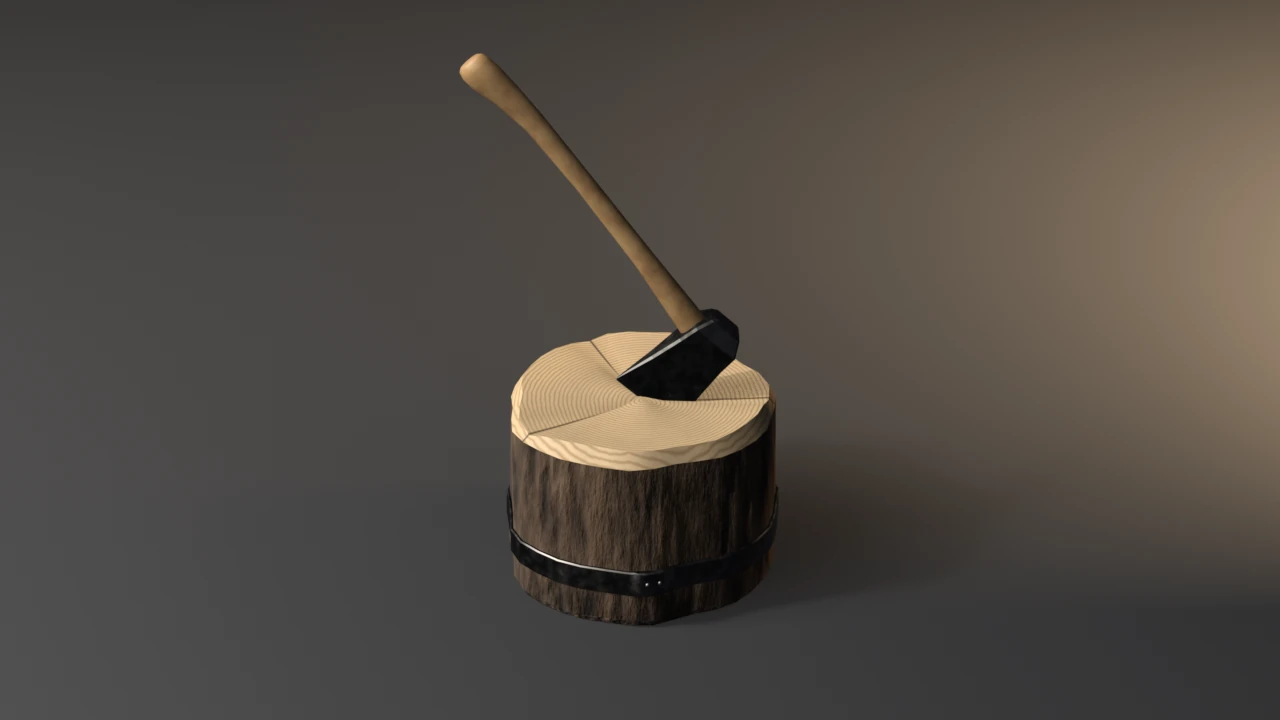
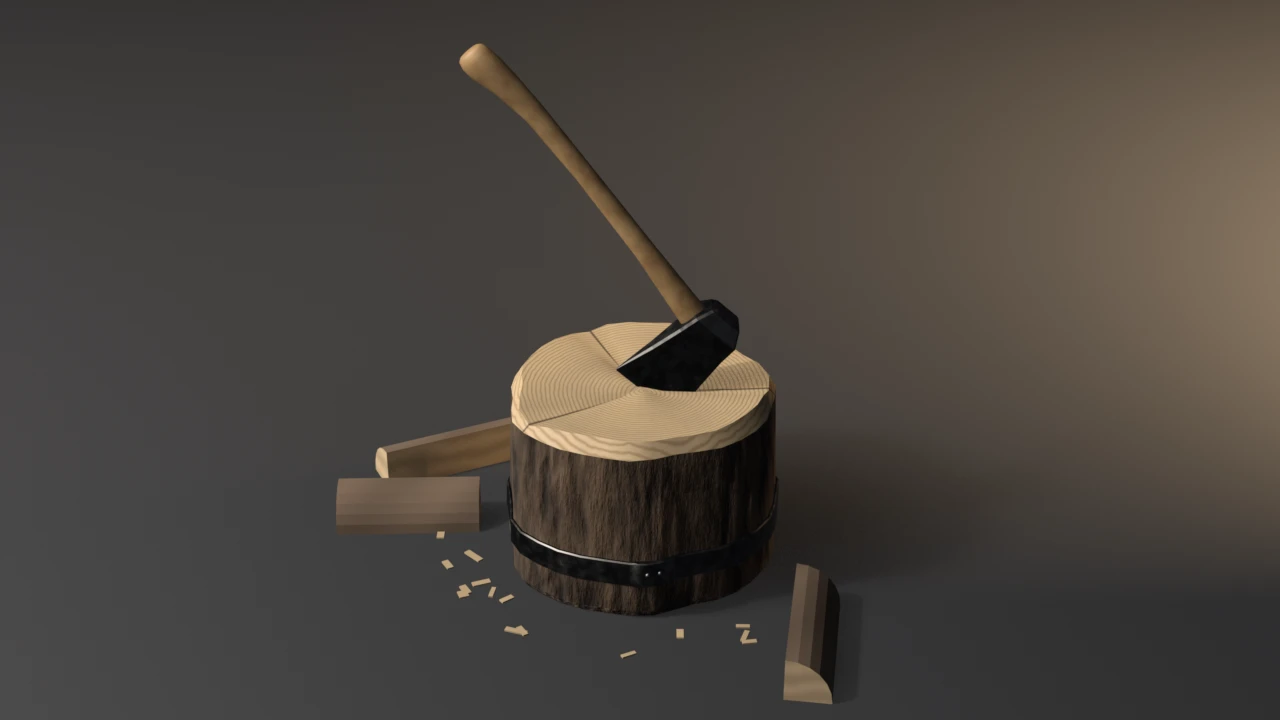
fix(showcase): set the chopping-block hero to work with split billets and chips
The hero showed the block alone on an empty floor. Render-only dressing now
lays three split billets at its foot: each is a quarter of a small round,
laid on one split face or the other so some show bark and some the split.
Sixteen seeded chips lie among them. The dressing has its own materials,
because the block's sample its baked normal map through UVs the dressing
does not have. It is not part of the asset: no budget reads it, the export
does not carry it, and the asset sheet renders the block alone. The key and
wedge were eased (900 to 760 and 700 W), since the first contact sheet read
brighter than the calibration set. Geometry and every budget are unchanged
(1800 tris).

Evidence (live runs, local .scratch binaries):
- Blender 5.2.1 LTS: default exits 0 (base 1800, LOD 0.5000 / 0.2200).
  --output passes framing: fill y 0.794, margins l 0.263 r 0.344 b 0.022
  t 0.061.
- Blender 4.5.11 LTS: default and --output exit 0, same counts, framing ok.
- tests/check_falsifier_targets.py --run on both versions: --skip-decimate
  9, --stray-vert 15, --lift-z 16, --fat-haft 17, --round-band 18,
  --float-rivets 18, --round-haft 19, all as documented.
- Contact sheet: luma 0.270, stage 0.264, warmth +0.173, sat 0.137.
- Asset sheet (docs/gallery/asset-sheets/chopping-block.webp): a small,
  simple object, but its rings, hoop, rivets and axe read as designed; not
  the least-designed object in the lineup. 5.1.2 was not run.

Changed region(s): [[0.25, 0.0611, 0.6562, 0.9778]]

diff --git a/showcase/chopping-block/chopping_block.py b/showcase/chopping-block/chopping_block.py
@@ -36,6 +36,7 @@ not an exact count.
 import argparse
 import math
 import os
+import random
 import sys
 import tempfile
 import traceback
@@ -1790,6 +1791,99 @@ def wire_normal(mat, tex):
     nt.links.new(nrm.outputs["Normal"], target)
 
 
+def _dressing_materials():
+    """Split face and bark for the render-only kindling and chips. Their own
+    materials: the block's are wired to its baked normal map through UVs the
+    dressing does not have."""
+    def mat(name, base, rough, stripes):
+        m = bpy.data.materials.new(name)
+        m.use_nodes = True
+        nt = m.node_tree
+        b = nt.nodes["Principled BSDF"]
+        b.inputs["Roughness"].default_value = rough
+        coord = nt.nodes.new("ShaderNodeTexCoord")
+        wave = nt.nodes.new("ShaderNodeTexWave")
+        wave.wave_type = "BANDS"
+        wave.bands_direction = "Z" if stripes else "X"
+        wave.inputs["Scale"].default_value = 6.0 if stripes else 2.0
+        wave.inputs["Distortion"].default_value = 6.0
+        wave.inputs["Detail"].default_value = 3.0
+        nt.links.new(coord.outputs["Object"], wave.inputs["Vector"])
+        ramp = nt.nodes.new("ShaderNodeValToRGB")
+        ramp.color_ramp.elements[0].color = tuple(c * 0.72 for c in base) + (1.0,)
+        ramp.color_ramp.elements[1].color = base + (1.0,)
+        nt.links.new(wave.outputs["Fac"], ramp.inputs["Fac"])
+        nt.links.new(ramp.outputs["Color"], b.inputs["Base Color"])
+        return m
+    split = mat("KindlingSplit", (0.62, 0.46, 0.28), 0.72, True)
+    bark = mat("KindlingBark", (0.16, 0.11, 0.075), 0.9, False)
+    return split, bark
+
+
+def add_split_kindling(scene):
+    """Render-only dressing: split billets and chips at the block's foot.
+
+    A chopping block is read by what it splits. Each billet is a quarter of
+    a small round (two split faces meeting at the pith, bark on the arc),
+    laid on the floor; chips are thin seeded slivers. None of it is part of
+    the asset: no budget reads it, the export does not carry it, and the
+    asset sheet renders the block alone.
+    """
+    split, bark = _dressing_materials()
+    rng = random.Random(71)
+    me = bpy.data.meshes.new("Kindling")
+    me.materials.append(split)
+    me.materials.append(bark)
+    bm = bmesh.new()
+    try:
+        def billet(cx, cy, yaw, r, length, roll):
+            segs = 6
+            rings = []
+            for end in (-0.5, 0.5):
+                ring = [Vector((end * length, 0.0, 0.0))]
+                for k in range(segs + 1):
+                    a = (math.pi / 2.0) * k / segs
+                    ring.append(Vector((end * length, r * math.cos(a), r * math.sin(a))))
+                rings.append(ring)
+            rot = Matrix.Rotation(yaw, 3, "Z") @ Matrix.Rotation(roll, 3, "X")
+            vs = [[bm.verts.new(rot @ p + Vector((cx, cy, 0.0))) for p in ring] for ring in rings]
+            a, b = vs
+            n = len(a)
+            for k in range(n):
+                j = (k + 1) % n
+                f = bm.faces.new((a[k], a[j], b[j], b[k]))
+                # faces between arc vertices carry bark; the two through the
+                # pith are split faces
+                f.material_index = 1 if (k >= 1 and j >= 2) else 0
+            bm.faces.new(list(reversed(a))).material_index = 0
+            bm.faces.new(b).material_index = 0
+
+        # three billets beside the foot, two left and one right;
+        # roll 0 or +90 degrees lays a billet on one split face or the other, so\n        # some show their bark and some their split face
+        billet(-0.45, -0.02, math.radians(62.0), 0.088, 0.31, 0.0)
+        billet(-0.43, -0.19, math.radians(38.0), 0.080, 0.28, math.radians(90.0))
+        billet(0.42, -0.12, math.radians(118.0), 0.084, 0.29, math.radians(90.0))
+        for i in range(16):
+            ang = rng.uniform(math.radians(200.0), math.radians(340.0))
+            d = rng.uniform(0.31, 0.42)
+            cx, cy = d * math.cos(ang), d * math.sin(ang)
+            sx, sy, sz = rng.uniform(0.020, 0.045), rng.uniform(0.008, 0.018), 0.003
+            geo = bmesh.ops.create_cube(bm, size=1.0)
+            rot = Matrix.Rotation(rng.uniform(0.0, math.pi), 3, "Z")
+            for v in geo["verts"]:
+                v.co = rot @ Vector((v.co.x * sx, v.co.y * sy, v.co.z * sz + sz / 2.0)) \
+                    + Vector((cx, cy, 0.0))
+            for f in {f for v in geo["verts"] for f in v.link_faces}:
+                f.material_index = 0
+        bmesh.ops.recalc_face_normals(bm, faces=bm.faces)
+        bm.to_mesh(me)
+    finally:
+        bm.free()
+    ob = bpy.data.objects.new("Kindling", me)
+    scene.collection.objects.link(ob)
+    return ob
+
+
 def render_still(low, wood, tex, path, engine):
     scene = bpy.context.scene
     wire_normal(wood, tex)
@@ -1802,6 +1896,7 @@ def render_still(low, wood, tex, path, engine):
     # vector or the axe reads as a dark blob seen down its own length; the
     # haft then falls across frame as a diagonal instead of a vertical stick.
     low.rotation_euler.z = math.radians(2.0)
+    kindling = add_split_kindling(scene)
 
     floor_me = bpy.data.meshes.new("Floor")
     bm = bmesh.new()
@@ -1841,9 +1936,9 @@ def render_still(low, wood, tex, path, engine):
         ob.rotation_euler = tuple(math.radians(a) for a in rot)
         scene.collection.objects.link(ob)
 
-    light("Key", (-3.1, -4.3, 4.6), 900.0, 3.4, (1.0, 0.94, 0.86), (46, 0, -36))
+    light("Key", (-3.1, -4.3, 4.6), 760.0, 3.4, (1.0, 0.94, 0.86), (46, 0, -36))
     light("Fill", (5.0, -3.4, 2.4), 60.0, 8.0, (0.72, 0.82, 1.0), (62, 0, 50))
-    light("Wedge", (2.35, 2.5, 1.55), 900.0, 2.4, (1.0, 0.68, 0.38), (-64, 0, 218))
+    light("Wedge", (2.35, 2.5, 1.55), 700.0, 2.4, (1.0, 0.68, 0.38), (-64, 0, 218))
 
     cam_data = bpy.data.cameras.new("Cam")
     cam_data.lens = 50.0
@@ -1851,7 +1946,7 @@ def render_still(low, wood, tex, path, engine):
     cam.location = (1.72, -2.34, 1.96)
     scene.collection.objects.link(cam)
     aim = bpy.data.objects.new("Aim", None)
-    aim.location = (0.0, 0.0, 0.42)
+    aim.location = (0.0, 0.0, 0.40)
     scene.collection.objects.link(aim)
     con = cam.constraints.new("TRACK_TO")
     con.target = aim
@@ -1879,7 +1974,7 @@ def render_still(low, wood, tex, path, engine):
     scene.view_settings.view_transform = "Standard"
 
     fcode = gallery_framing.check_framing(
-        scene, cam, hero=[low], elements=[low], stage=[floor, wall],
+        scene, cam, hero=[low], elements=[low, kindling], stage=[floor, wall],
     )
     if fcode:
         return fcode

diff --git a/README.md b/README.md
@@ -128,7 +128,7 @@ Budget-conformance props. Not examples. Conventions: [`showcase/README.md`](show
   <a href="showcase/grindstone/"><img src="showcase/grindstone/preview.webp" width="24%" alt="Grindstone: a sandstone wheel dipping into a water-filled trough on a timber A-frame, with iron axle, hubs and a crank turned toward the viewer, on a dark studio floor" /></a>
   <a href="showcase/hand-pump/"><img src="showcase/hand-pump/preview.webp" width="24%" alt="Hand pump: a green-enamelled cast-iron village pump on a stepped wooden plinth with a spout and handle on a dark studio floor" /></a>
   <a href="showcase/signpost/"><img src="showcase/signpost/preview.webp" width="24%" alt="Signpost: a timber crossroads post with three painted fingerboards lettered MILLBROOK 2, OAKHAM 5 and FORD 1, iron straps, and a pyramidal cap on a dark studio floor" /></a>
-  <a href="showcase/chopping-block/"><img src="showcase/chopping-block/preview.webp" width="24%" alt="Chopping block: a bark-sided log round with growth rings and drying checks on its sawn top, a riveted iron hoop, and a felling axe buried in the top, on a dark studio floor" /></a>
+  <a href="showcase/chopping-block/"><img src="showcase/chopping-block/preview.webp" width="24%" alt="Chopping block: a bark-sided log round with growth rings and drying checks on its sawn top, a riveted iron hoop, a felling axe buried in the top, and split billets and chips at its foot, on a dark studio floor" /></a>
   <a href="showcase/wooden-bucket/"><img src="showcase/wooden-bucket/preview.webp" width="24%" alt="Wooden bucket: a coopered pail with a three-strand rope bail through iron ear rings and chord-lofted iron hoops on a dark studio floor" /></a>
   <a href="showcase/wall-torch/"><img src="showcase/wall-torch/preview.webp" width="24%" alt="Wall torch: a dressed stone plaque with an iron plate and arm holding a cup, a leaning wooden torch with a pitch-wrapped head and a bright flame, on a dark studio floor" /></a>
   <a href="showcase/tavern-stool/"><img src="showcase/tavern-stool/preview.webp" width="24%" alt="Tavern stool: a dished round wooden seat holding a pewter tankard, on turned splayed legs with stretchers at two heights and iron ferrules on flat treads, on a dark studio floor" /></a>

diff --git a/showcase/chopping-block/README.md b/showcase/chopping-block/README.md
@@ -14,6 +14,14 @@ bit with its chamfers modelled into the section profile, and the haft is
 swept through the eye rather than pushed into it. The haft is oval,
 bows away from the bit, and hooks toward it at the knob.
 
+The hero sets the block to work: three split billets lie at its foot, each a
+quarter of a small round laid on one split face or the other so some show
+bark and some the split, among sixteen seeded chips. The dressing is
+render-only with its own materials (the block's materials sample its baked
+normal map through UVs the dressing does not have). It is not part of the
+asset: no budget reads it, the export does not carry it, and the asset sheet
+renders the block alone.
+
 It asserts **budget conformance** of the generated result. It does not
 witness an API contract. "It rendered without error" is not a check.
 
